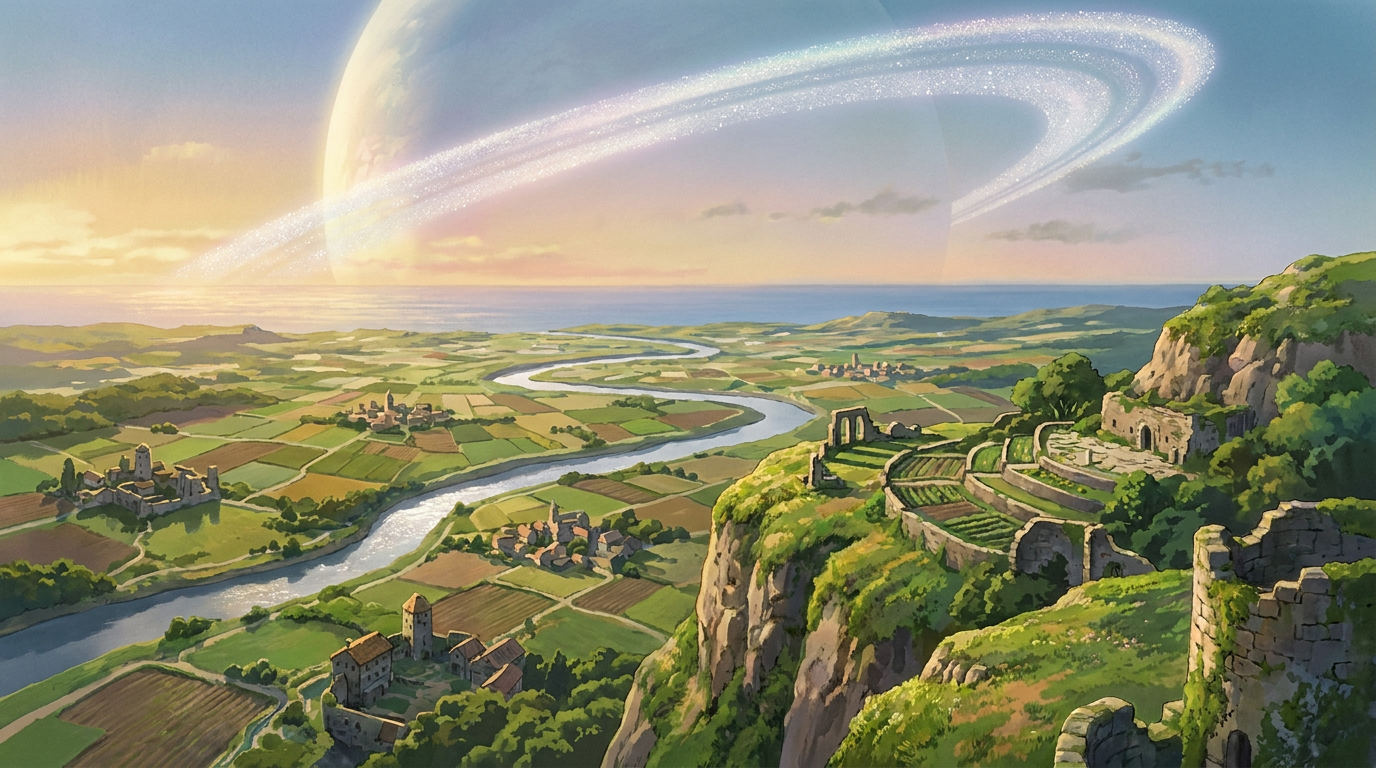
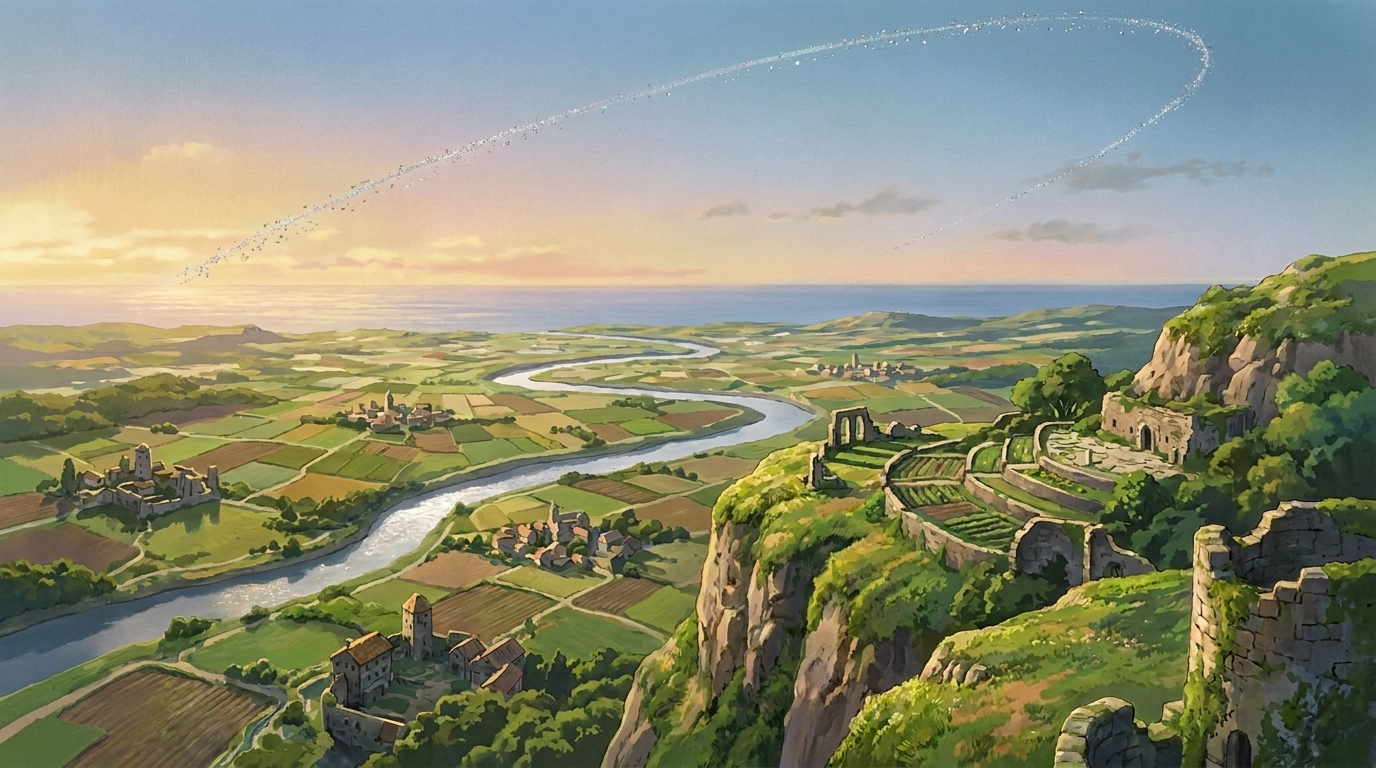
fix: random continents + thin Silver Bride (no Earth, no Saturn) — orbit + valley repainted; hero now uses Geor_World_fixed.jpg; request-access emails ichieisenheart@gmail.com via MailChannels

Changed region(s): [[0.125, 0.0, 0.9062, 0.375]]

diff --git a/worker.js b/worker.js
@@ -127,7 +127,7 @@ export default {
         }
       }
 
-      // POST /api/request-access  {email, message} — public, creates pending request
+      // POST /api/request-access  {email, message} — public, creates pending request + emails admin
       if (url.pathname === '/api/request-access' && request.method === 'POST') {
         try {
           await ensureTables();
@@ -139,6 +139,25 @@ export default {
           const existsReq = await env.DB.prepare('SELECT id FROM requests WHERE email = ? AND status = "pending"').bind(norm).first();
           if (existsReq) return json({ error: 'Request already pending — we will email you' }, 409);
           await env.DB.prepare('INSERT INTO requests (email, message) VALUES (?, ?)').bind(norm, (message||'').slice(0,500)).run();
+          // notify admin via MailChannels (Cloudflare Workers email) — best effort, never blocks response
+          const adminEmail = 'ichieisenheart@gmail.com';
+          const notifyFrom = 'noreply@worldofgeor.com';
+          ctx.waitUntil((async () => {
+            try {
+              const subject = `New access request: ${norm}`;
+              const text = `New request for World of Ge'or\n\nEmail: ${norm}\nMessage: ${(message||'(no message)').slice(0,800)}\n\nApprove in /admin.html or D1: INSERT INTO invites(code) VALUES ('INVITE_...'); then share code with user.\nTime: ${new Date().toISOString()}\n`;
+              await fetch('https://api.mailchannels.net/tx/v1/send', {
+                method: 'POST',
+                headers: { 'content-type': 'application/json' },
+                body: JSON.stringify({
+                  personalizations: [{ to: [{ email: adminEmail, name: 'Mikhail' }] }],
+                  from: { email: notifyFrom, name: "World of Ge'or" },
+                  subject,
+                  content: [{ type: 'text/plain', value: text }],
+                })
+              });
+            } catch {}
+          })());
           return json({ ok: true });
         } catch (e) { return json({ error: 'Request failed', detail: String(e) }, 500); }
       }

diff --git a/index.html b/index.html
@@ -60,7 +60,7 @@
   <!-- Hero -->
   <section class="relative min-h-[92vh] flex items-center overflow-hidden pt-[64px]">
     <div class="absolute inset-0">
-      <img src="/Geor_from_orbit.png" alt="Ge'or from orbit" class="w-full h-full object-cover object-[center_35%]" onerror="this.style.display='none'" />
+      <img src="/Geor_World_fixed.jpg" alt="Ge'or from orbit — the Silver Bride, a thin fragmented debris ring" class="w-full h-full object-cover object-[center_35%]" onerror="this.style.display='none'" />
       <div class="absolute inset-0 bg-gradient-to-b from-ink/20 via-ink/40 to-ink"></div>
       <div class="absolute inset-0 bg-gradient-to-r from-ink/80 via-ink/20 to-transparent"></div>
     </div>
